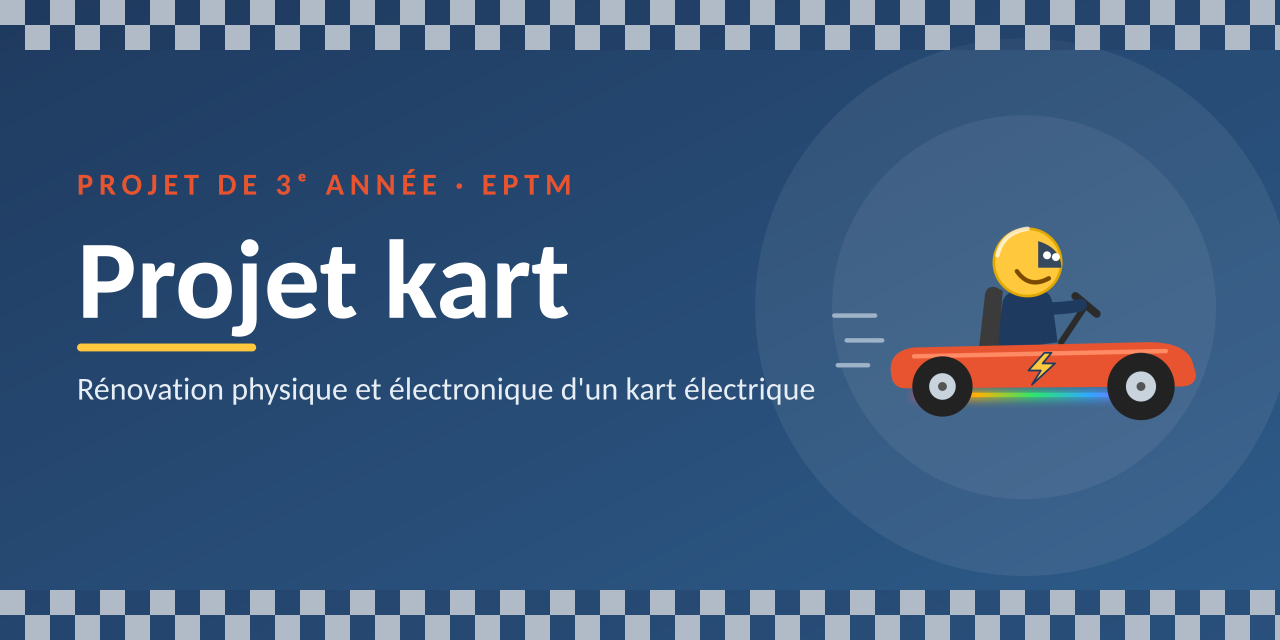
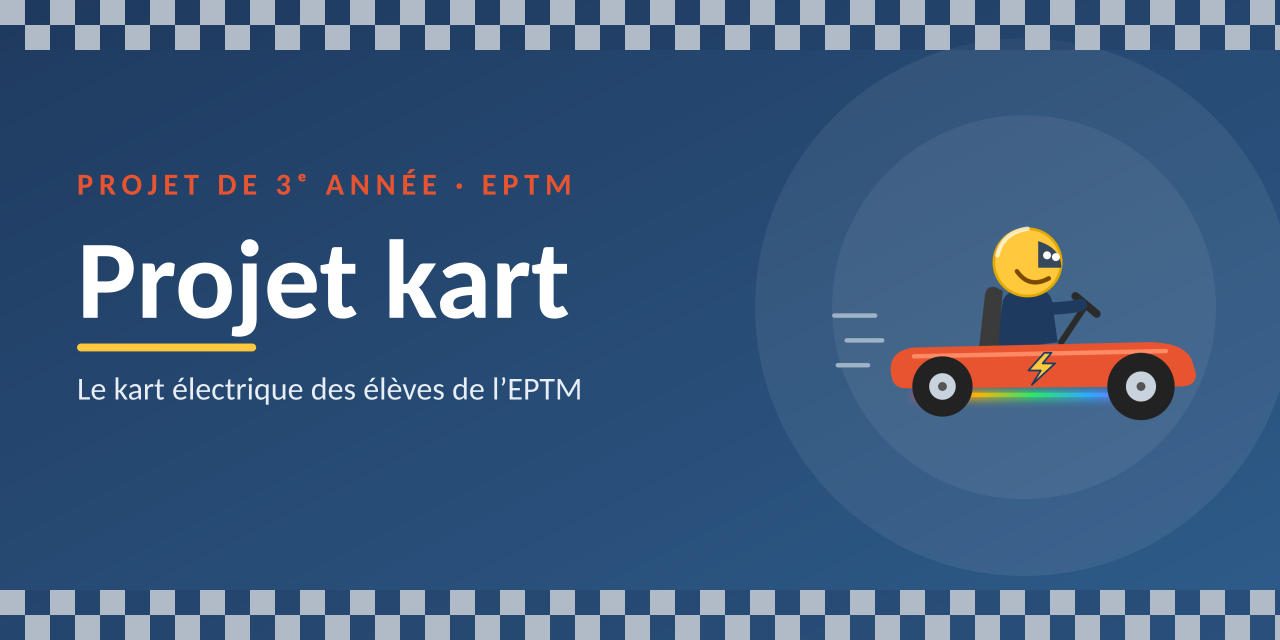
README plus général, centré sur le projet des élèves (#4)
- Présentation générale du kart comme projet repris d'une volée à l'autre
- Tableau « Travaux des élèves » à compléter par chaque élève
- Retrait du détail du cahier des charges (disponible dans documentation/)
- Bannière et aperçu social avec un sous-titre général

Claude-Session: https://claude.ai/code/session_01TYutqc7YAs3pZEni7hG7SF

Changed region(s): [[0.0625, 0.5938, 0.6562, 0.625]]

diff --git a/README.md b/README.md
@@ -1,11 +1,10 @@
 <p align="center">
-  <img src="assets/banniere.png" alt="Projet kart — rénovation physique et électronique d'un kart électrique" width="100%">
+  <img src="assets/banniere.png" alt="Projet kart — le kart électrique des élèves de l'EPTM" width="100%">
 </p>
 
 <p align="center">
   <img src="https://img.shields.io/badge/projet-3e%20ann%C3%A9e%20EPTM-1F3A5F?style=for-the-badge" alt="Projet de 3e année EPTM">
-  <img src="https://img.shields.io/badge/dur%C3%A9e-3%20mois-E8542F?style=for-the-badge" alt="Durée : 3 mois">
-  <img src="https://img.shields.io/badge/%C3%A9tape-cahier%20des%20charges-FFC83D?style=for-the-badge" alt="Étape : cahier des charges">
+  <img src="https://img.shields.io/badge/acc%C3%A8s-libre-E8542F?style=for-the-badge" alt="Accès libre">
   <a href="CONTRIBUTING.md"><img src="https://img.shields.io/badge/PR-bienvenues-2E6B2A?style=for-the-badge" alt="Pull requests bienvenues"></a>
 </p>
 
@@ -15,120 +14,48 @@
   <a href="LICENSES/CC-BY-4.0.txt"><img src="https://img.shields.io/badge/documentation-CC%20BY%204.0-E8542F" alt="Documentation : CC BY 4.0"></a>
 </p>
 
-<p align="center">
-  <b><a href="documentation/cahier_des_charges/Cahier_des_charges_kart_Bachelard.pdf">📄 Cahier des charges</a></b>
-  &nbsp;·&nbsp;
-  <b><a href="CONTRIBUTING.md">🤝 Contribuer</a></b>
-  &nbsp;·&nbsp;
-  <b><a href="LICENSE.md">📜 Licences</a></b>
-</p>
-
 ---
 
-## 🏁 Présentation
+## 🏁 Le projet
 
-Le kart de l'école a déjà été le sujet des projets de nombreux élèves. Lors des portes ouvertes, son analyse a révélé plusieurs défauts, dont certains touchent à la sécurité. Avant de pouvoir lui ajouter de nouvelles fonctionnalités, comme un pilotage à distance, **le kart doit d'abord fonctionner correctement**.
+Le kart électrique de l'école est un projet de 3e année repris par les élèves d'une volée à l'autre. Chacun y apporte sa pierre : électronique, mécanique, logiciel ou documentation.
 
-Ce projet vise donc à proposer un **kart fonctionnel et au goût du jour**, grâce à une rénovation **physique et électronique**, et à en faire une **base solide** que les futurs élèves pourront reprendre et faire évoluer.
+Ce dépôt rassemble ce travail **en accès libre**, pour que chaque nouvel élève puisse partir d'une base documentée, comprendre ce qui a déjà été fait et continuer à améliorer le kart, au lieu de tout redécouvrir.
 
-## 📑 Sommaire
+## 📚 Travaux des élèves
 
-- [État des lieux](#-état-des-lieux)
-- [Objectifs et priorités](#-objectifs-et-priorités)
-- [Sécurité](#-sécurité)
-- [Organisation](#-organisation)
-- [Structure du dépôt](#-structure-du-dépôt)
-- [Outils](#-outils)
-- [Contribuer](#-contribuer)
-- [Licences](#-licences)
+| Année | Élève | Sujet | Documents |
+|---|---|---|---|
+| 2026 | Nathanaël Bachelard | Rénovation physique et électronique | [Cahier des charges](documentation/cahier_des_charges/Cahier_des_charges_kart_Bachelard.pdf) |
 
-## 🔍 État des lieux
-
-Défauts relevés lors des portes ouvertes :
-
-| Élément | Constat |
-|---|---|
-| **Freinage** | Dangereux : il bloque et n'est pas synchronisé entre l'avant et l'arrière. La pédale est une simple barre mal fixée. |
-| **Pneus** | Dégonflés et en mauvais état. |
-| **Affichage au volant** | Câblage archaïque, afficheurs analogiques, glissières qui ne tiennent pas, écran mal fixé. |
-| **Batteries et moteur** | Système ancien, à remplacer (état exact à confirmer lors de l'analyse). |
-
-## 🎯 Objectifs et priorités
-
-| Priorité | Domaine | Objectif |
-|---|---|---|
-| 🔴 **Indispensable** | Propulsion | Refaire toute la chaîne, de la batterie au moteur : batteries lithium avec BMS, contrôleur moteur (ESC) et moteur brushless |
-| 🔴 **Indispensable** | Freinage | Frein hydraulique à disque, synchronisé entre l'avant et l'arrière, avec une vraie pédale |
-| 🔴 **Indispensable** | Pneus | Remplacement des pneus |
-| 🔵 **Souhaitable** | Monitoring au volant | Nouvel écran bien fixé : vitesse, tension et courant de la batterie, température du moteur et de l'ESC… |
-| 🔵 **Souhaitable** | Pilotage à distance | Préparer le kart : consigne d'accélération transmise à l'ESC par un signal électrique standard |
-| 🟢 **Optionnel** | Siège | D'abord des coussins ; un nouveau siège seulement si cela ne suffit pas |
-| 🟢 **Optionnel** | Néons | Éclairage RGB sous le kart |
-| 🟢 **Optionnel** | Revêtement | Habillage imprimé en 3D |
-
-> [!NOTE]
-> Le pilotage à distance ne fait pas partie de ce projet, mais la rénovation en est la première étape : le passage à un contrôleur moteur (ESC) faisait déjà partie des modifications nécessaires. Le détail complet se trouve dans le [cahier des charges](documentation/cahier_des_charges/Cahier_des_charges_kart_Bachelard.pdf).
-
-## 🔋 Sécurité
-
-Le passage aux batteries lithium impose les mesures suivantes :
-
-| Mesure | Rôle |
-|---|---|
-| **BMS** (Battery Management System) | Protège le pack contre la surcharge, la décharge profonde, les surintensités et la surchauffe, et équilibre les cellules |
-| **Fusible principal** | Placé au plus près de la batterie, il coupe le circuit en cas de court-circuit |
-| **Coupe-circuit d'urgence** | Accessible au pilote, il permet de couper immédiatement l'alimentation |
-| **Procédure de charge** | Charge avec un chargeur adapté aux batteries, selon une procédure définie et sous surveillance |
-
-> [!WARNING]
-> Le kart est un véhicule électrique alimenté par des batteries lithium. Le contenu de ce dépôt est fourni **« tel quel », sans garantie** : toute reproduction ou modification se fait sous ta propre responsabilité.
-
-## 🗺 Organisation
-
-Le projet dure **3 mois** et s'organise en trois phases :
-
-```mermaid
-flowchart LR
-    A["🔎 Phase 1<br/>Analyse"] --> B["🛠 Phase 2<br/>Développement et tests"] --> C["🏁 Phase 3<br/>Installation concrète<br/>et derniers tests"]
-    style A fill:#2E5C8A,color:#fff,stroke:#2E5C8A
-    style B fill:#1F3A5F,color:#fff,stroke:#1F3A5F
-    style C fill:#E8542F,color:#fff,stroke:#E8542F
-```
+> Tu reprends le projet ? Ajoute ta ligne à ce tableau dans ta pull request.
 
 ## 📁 Structure du dépôt
 
 ```
 EPTM_Kart_3rd_year_project/
-├── documentation/
-│   └── cahier_des_charges/   Cahier des charges (PDF et Word)
-├── electronique/             Schémas et PCB (KiCad)
-├── mecanique/                Modèles 3D et pièces (Fusion)
-├── logiciel/                 Code et firmware
-├── assets/                   Images du dépôt
-├── LICENSES/                 Textes complets des licences
-├── CONTRIBUTING.md           Guide de contribution
-└── LICENSE.md                Répartition des licences
+├── documentation/   Cahiers des charges, rapports, notices
+├── electronique/    Schémas et PCB (KiCad)
+├── mecanique/       Modèles 3D et pièces (Fusion)
+├── logiciel/        Code et firmware
+├── assets/          Images du dépôt
+└── LICENSES/        Textes complets des licences
 ```
-
-## 🧰 Outils
-
-| Domaine | Outil |
-|---|---|
-| Conception 3D | Fusion |
-| Électronique | KiCad |
-| Développement | VS Code |
-| Partage et versionnage | GitHub |
-| Assistance par IA | Claude |
 
 ## 🤝 Contribuer
 
-Ce dépôt est fait pour être repris par les prochains élèves : **toute contribution passe par une pull request**.
+Toute contribution passe par une **pull request** :
 
 1. Fork le dépôt et crée une branche.
 2. Fais tes modifications.
 3. Ouvre une pull request en expliquant ce que tu as changé, pourquoi, et comment tu l'as testé.
 
-Pour signaler un problème ou proposer une amélioration, ouvre une [issue](../../issues/new/choose). L'accès administrateur est réservé aux élèves de l'école : voir le [guide de contribution](CONTRIBUTING.md).
+Pour signaler un problème ou proposer une idée, ouvre une [issue](../../issues/new/choose). L'accès administrateur est réservé aux élèves de l'école : tout est expliqué dans le [guide de contribution](CONTRIBUTING.md).
+
+## ⚠ Sécurité
+
+> [!WARNING]
+> Le kart est un véhicule électrique alimenté par des batteries. Le contenu de ce dépôt est fourni **« tel quel », sans garantie** : toute reproduction ou modification se fait sous ta propre responsabilité.
 
 ## 📜 Licences
 
@@ -143,6 +70,5 @@ Détails dans [LICENSE.md](LICENSE.md).
 ---
 
 <p align="center">
-  Projet réalisé par <b>Nathanaël Bachelard</b> · EPTM · 2026<br>
-  🏎 <i>Prêt à rouler !</i>
+  🏎 <i>Un projet des élèves de l'EPTM, d'une volée à l'autre.</i>
 </p>
